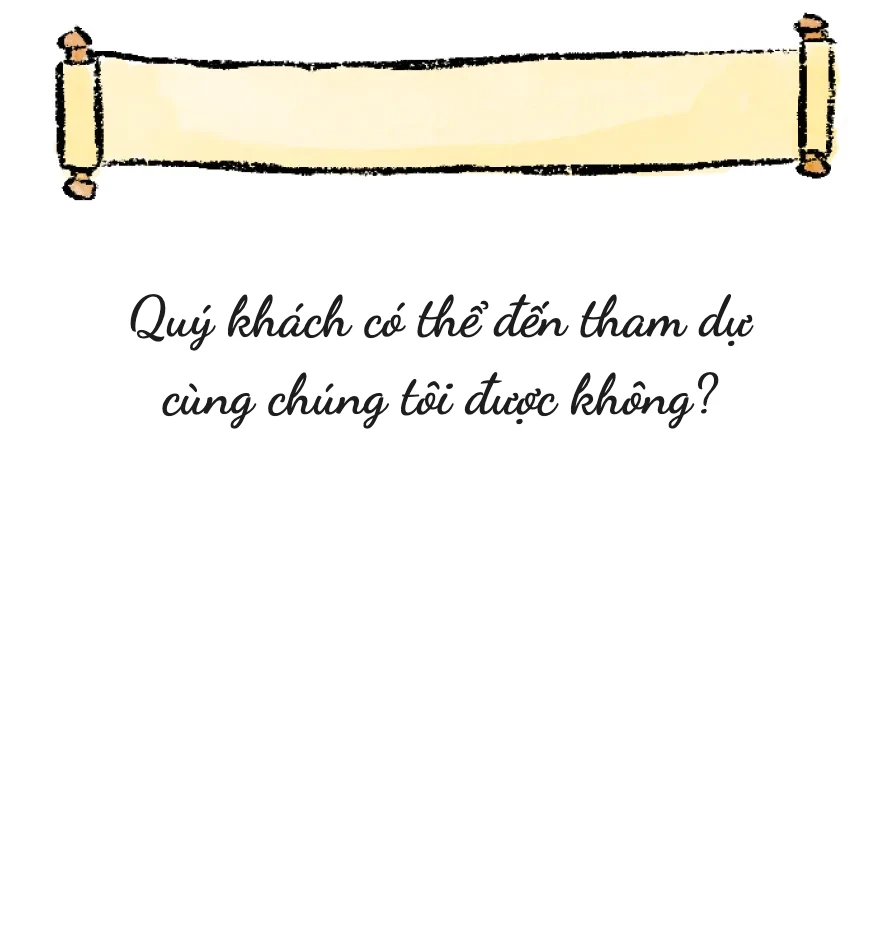
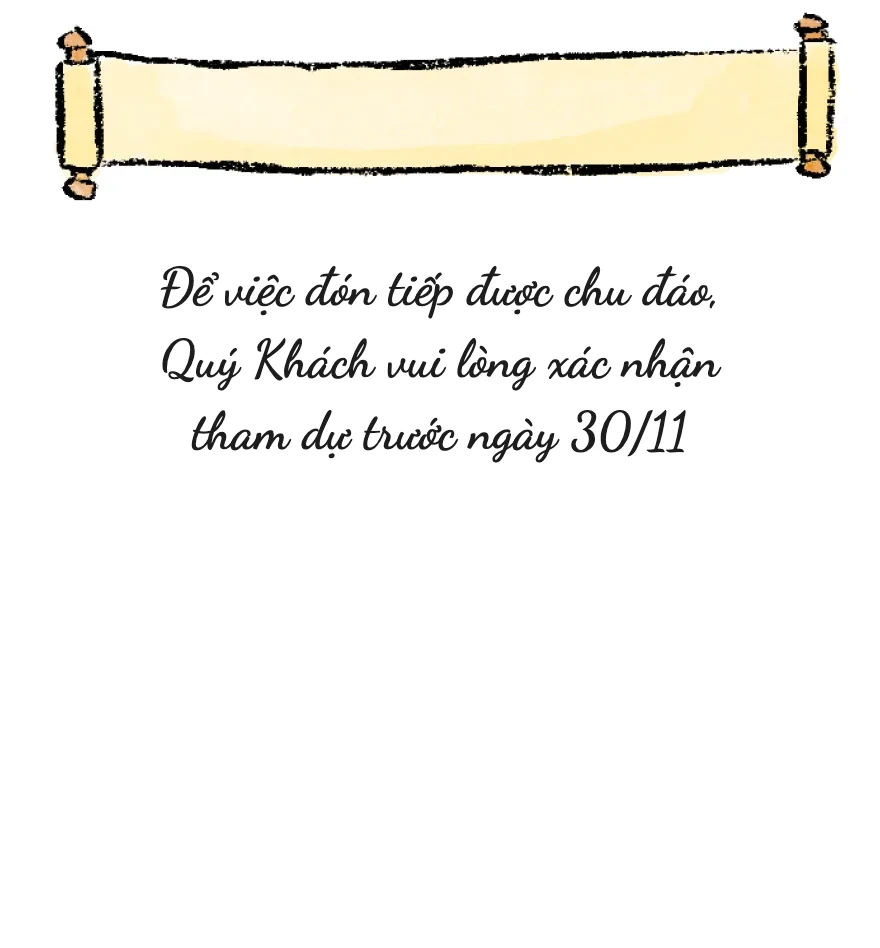
RSVP: new invitation-to-confirm text, simple thank-you
- Question art now reads 'Để việc đón tiếp được chu đáo, Quý Khách vui lòng xác nhận tham dự trước ngày 30/11'
- Thank-you screen shows only 'Xin Chân Thành Cảm Ơn'

Changed region(s): [[0.1534, 0.2753, 0.8591, 0.4895]]

diff --git a/index.html b/index.html
@@ -16,7 +16,7 @@
 <link rel="preload" as="image" href="assets/curtain-right.webp">
 <link rel="stylesheet" href="styles.css?v=2">
 <link rel="stylesheet" href="motion.css?v=2">
-<link rel="stylesheet" href="rsvp.css?v=2">
+<link rel="stylesheet" href="rsvp.css?v=3">
 <script>document.documentElement.classList.add('js');try{if(!matchMedia('(prefers-reduced-motion: reduce)').matches&&!/[?&]skip=1/.test(location.search))document.documentElement.classList.add('is-opening');}catch(e){}</script>
 </head>
 <body>
@@ -26,7 +26,7 @@ chung vui</h2><p class="t small-i c pre" style="left:calc(88 * var(--u));top:cal
 kính mời quý khách
 đến chung vui trong lễ thành hôn</p><p class="sr-only">Minh Tran &amp; Mindy Quach</p><p class="t small-bi c" style="left:calc(134 * var(--u));top:calc(2319 * var(--u));width:calc(177 * var(--u));white-space:pre;">Thứ Bảy  |  19 tháng 12, 2026</p><p class="t venue c" style="left:calc(50 * var(--u));top:calc(2367 * var(--u));width:calc(340 * var(--u));white-space:pre;">Thiskyhall Sala Convention Center</p><p class="t small-i c pre" style="left:calc(72 * var(--u));top:calc(2398 * var(--u));width:calc(296 * var(--u));">Cổng đường D6 10 Mai Chí Thọ
 KĐT Sala, An Khánh
-TP. Hồ Chí Minh</p></div></section><section id="rsvp" aria-labelledby="rsvp-h"><div id="rsvp-art" class="art " style="height:calc(364 * var(--u));overflow:hidden"><div class="shift" style="top:calc(-2776 * var(--u))"><img class="bg" src="assets/rsvp.webp?v=3" alt="" aria-hidden="true" width="440" height="474" loading="lazy" decoding="async" style="top:calc(2776 * var(--u));height:calc(474 * var(--u))"><h2 id="rsvp-h" class="t h-script" style="left:calc(179 * var(--u));top:calc(2803 * var(--u));width:calc(89 * var(--u));white-space:pre;">RSVP</h2><p class="sr-only">Quý khách có thể đến tham dự cùng chúng tôi được không?</p><img class="sprite sp-wand-left anim-wand-left " src="assets/wand-left.webp" alt="" aria-hidden="true" width="224" height="139" loading="lazy" decoding="async" style="left:calc(-48 * var(--u));top:calc(2988 * var(--u));width:calc(224 * var(--u));height:calc(139 * var(--u));"><img class="sprite sp-wand-right anim-wand-right " src="assets/wand-right.webp" alt="" aria-hidden="true" width="224" height="139" loading="lazy" decoding="async" style="left:calc(262 * var(--u));top:calc(2988 * var(--u));width:calc(224 * var(--u));height:calc(139 * var(--u));"></div></div><div id="rsvp-form-root"></div></section><section id="agenda" class="art " style="height:calc(935 * var(--u));overflow:hidden"><div class="shift" style="top:calc(-3840 * var(--u))"><img class="bg" src="assets/agenda.webp" alt="" aria-hidden="true" width="440" height="1115" loading="lazy" decoding="async" style="top:calc(3660 * var(--u));height:calc(1115 * var(--u))"><img class="sprite" src="assets/star.webp" alt="" aria-hidden="true" width="32" height="31" loading="lazy" decoding="async" style="left:calc(200.1 * var(--u));top:calc(4290 * var(--u));width:calc(32.4 * var(--u));height:calc(31.3 * var(--u));"><img class="sprite" src="assets/star.webp" alt="" aria-hidden="true" width="32" height="31" loading="lazy" decoding="async" style="left:calc(200.1 * var(--u));top:calc(4515 * var(--u));width:calc(32.4 * var(--u));height:calc(31.3 * var(--u));"><h2 class="t h-script c pre" style="left:calc(42 * var(--u));top:calc(3916 * var(--u));width:calc(356 * var(--u));">Chương Trình</h2><h3 class="t loc c pre" style="left:calc(117 * var(--u));top:calc(4037 * var(--u));width:calc(204 * var(--u));white-space:pre;"><span class="loc-b">Tiệc cưới
+TP. Hồ Chí Minh</p></div></section><section id="rsvp" aria-labelledby="rsvp-h"><div id="rsvp-art" class="art " style="height:calc(392 * var(--u));overflow:hidden"><div class="shift" style="top:calc(-2776 * var(--u))"><img class="bg" src="assets/rsvp.webp?v=4" alt="" aria-hidden="true" width="440" height="474" loading="lazy" decoding="async" style="top:calc(2776 * var(--u));height:calc(474 * var(--u))"><h2 id="rsvp-h" class="t h-script" style="left:calc(179 * var(--u));top:calc(2803 * var(--u));width:calc(89 * var(--u));white-space:pre;">RSVP</h2><p class="sr-only">Để việc đón tiếp được chu đáo, Quý Khách vui lòng xác nhận tham dự trước ngày 30/11</p><img class="sprite sp-wand-left anim-wand-left " src="assets/wand-left.webp" alt="" aria-hidden="true" width="224" height="139" loading="lazy" decoding="async" style="left:calc(-48 * var(--u));top:calc(3016 * var(--u));width:calc(224 * var(--u));height:calc(139 * var(--u));"><img class="sprite sp-wand-right anim-wand-right " src="assets/wand-right.webp" alt="" aria-hidden="true" width="224" height="139" loading="lazy" decoding="async" style="left:calc(262 * var(--u));top:calc(3016 * var(--u));width:calc(224 * var(--u));height:calc(139 * var(--u));"></div></div><div id="rsvp-form-root"></div></section><section id="agenda" class="art " style="height:calc(935 * var(--u));overflow:hidden"><div class="shift" style="top:calc(-3840 * var(--u))"><img class="bg" src="assets/agenda.webp" alt="" aria-hidden="true" width="440" height="1115" loading="lazy" decoding="async" style="top:calc(3660 * var(--u));height:calc(1115 * var(--u))"><img class="sprite" src="assets/star.webp" alt="" aria-hidden="true" width="32" height="31" loading="lazy" decoding="async" style="left:calc(200.1 * var(--u));top:calc(4290 * var(--u));width:calc(32.4 * var(--u));height:calc(31.3 * var(--u));"><img class="sprite" src="assets/star.webp" alt="" aria-hidden="true" width="32" height="31" loading="lazy" decoding="async" style="left:calc(200.1 * var(--u));top:calc(4515 * var(--u));width:calc(32.4 * var(--u));height:calc(31.3 * var(--u));"><h2 class="t h-script c pre" style="left:calc(42 * var(--u));top:calc(3916 * var(--u));width:calc(356 * var(--u));">Chương Trình</h2><h3 class="t loc c pre" style="left:calc(117 * var(--u));top:calc(4037 * var(--u));width:calc(204 * var(--u));white-space:pre;"><span class="loc-b">Tiệc cưới
 </span><span class="loc-i">Sảnh Skylar 1, 2 (tầng 5)</span></h3><p class="t item c pre" style="left:calc(145 * var(--u));top:calc(4165 * var(--u));width:calc(124 * var(--u));white-space:pre;"><span class="time">17:30
 </span><span class="title">Đón khách</span></p><p class="t item c pre" style="left:calc(103 * var(--u));top:calc(4375 * var(--u));width:calc(229 * var(--u));white-space:pre;"><span class="time">18:30
 </span><span class="title">Khai tiệc</span></p></div></section><section id="location" class="art " style="height:calc(1420 * var(--u))"><div class="shift" style="top:calc(-5837 * var(--u))"><img class="bg" src="assets/location.webp" alt="" aria-hidden="true" width="440" height="670" loading="lazy" decoding="async" style="top:calc(5837 * var(--u));height:calc(670 * var(--u))"><h2 class="t h-script c" style="left:calc(42 * var(--u));top:calc(6283 * var(--u));width:calc(356 * var(--u));white-space:pre;">Địa điểm</h2><p class="t venue-l c" style="left:calc(20 * var(--u));top:calc(6365 * var(--u));width:calc(400 * var(--u));white-space:pre;">Thiskyhall Sala Convention Center</p><p class="t body c pre" style="left:calc(40 * var(--u));top:calc(6405 * var(--u));width:calc(360 * var(--u));">Cổng đường D6 10 Mai Chí Thọ
@@ -35,6 +35,6 @@ TP. Hồ Chí Minh</p><a class="map" id="map" href="https://www.google.com/maps/
 </main>
 <script src="main.js?v=2" defer></script>
 <script src="config.js?v=2"></script>
-<script src="rsvp.js?v=3" defer></script>
+<script src="rsvp.js?v=4" defer></script>
 </body>
 </html>

diff --git a/rsvp.js b/rsvp.js
@@ -49,7 +49,7 @@
   }
 
   // ---------- build DOM ----------
-  var title = h('h2', { class: 'rsvp-title', id: 'rsvp-title', text: 'Quý khách có thể đến tham dự cùng chúng tôi được không?' });
+  var title = h('h2', { class: 'rsvp-title', id: 'rsvp-title', text: 'Để việc đón tiếp được chu đáo, Quý Khách vui lòng xác nhận tham dự trước ngày 30/11' });
   var btnYes = h('button', { type: 'button', class: 'rsvp-pill', 'aria-pressed': 'false', text: 'Có' });
   var btnNo = h('button', { type: 'button', class: 'rsvp-pill', 'aria-pressed': 'false', text: 'Không' });
   var choice = h('div', { class: 'rsvp-choice', role: 'group', 'aria-labelledby': 'rsvp-title' }, [btnYes, btnNo]);
@@ -259,17 +259,8 @@
 
   function success(p) {
     clearDraft();
-    var yes = p.attending === 'Yes';
-    var who = p.fullName;
     thanks.textContent = '';
-    thanks.appendChild(h('h3', { text: yes ? 'Hẹn gặp bạn tại tiệc!' : 'Chúng mình sẽ nhớ bạn lắm!' }));
-    thanks.appendChild(h('p', { text: yes
-      ? 'Cảm ơn ' + who + '. Chúng mình đã giữ ' + p.seats + ' chỗ cho bạn và rất vui vì bạn sẽ đến chung vui.'
-      : 'Cảm ơn ' + who + ' đã báo cho chúng mình. Mong sớm được gặp và chung vui cùng bạn.' }));
-    thanks.appendChild(h('p', { text: 'Thương mến, Minh & Mindy' }));
-    var again = h('button', { type: 'button', class: 'rsvp-link', text: 'Gửi một phản hồi khác' });
-    again.addEventListener('click', function () { resetAll(); title.scrollIntoView({ block: 'center' }); });
-    thanks.appendChild(again);
+    thanks.appendChild(h('h3', { text: 'Xin Chân Thành Cảm Ơn' }));
     form.hidden = true; choice.hidden = true; title.hidden = true; thanks.hidden = false;
     thanks.focus();
   }

diff --git a/rsvp.css b/rsvp.css
@@ -58,7 +58,7 @@
 #rsvp-form-root .rsvp-status{margin:10px 0 0;min-height:1.2em;text-align:center;font-style:italic}
 #rsvp-form-root .rsvp-status.is-error{color:var(--r-err)}
 #rsvp-form-root .rsvp-thanks{text-align:center;background:#fff;border:1px solid var(--r-line);border-radius:6px;padding:32px 20px}
-#rsvp-form-root .rsvp-thanks h3{font-family:var(--r-script);font-weight:400;font-size:2.2rem;margin:0 0 10px}
+#rsvp-form-root .rsvp-thanks h3{font-family:var(--r-script);font-style:italic;font-weight:400;font-size:clamp(1.35rem,6.2vw,1.9rem);white-space:nowrap;margin:0}
 #rsvp-form-root .rsvp-thanks p{margin:0 0 8px}
 #rsvp-form-root .rsvp-thanks[hidden],#rsvp-form-root .rsvp-form[hidden]{display:none}
 #rsvp-form-root .rsvp-hp input{font-size:16px}
